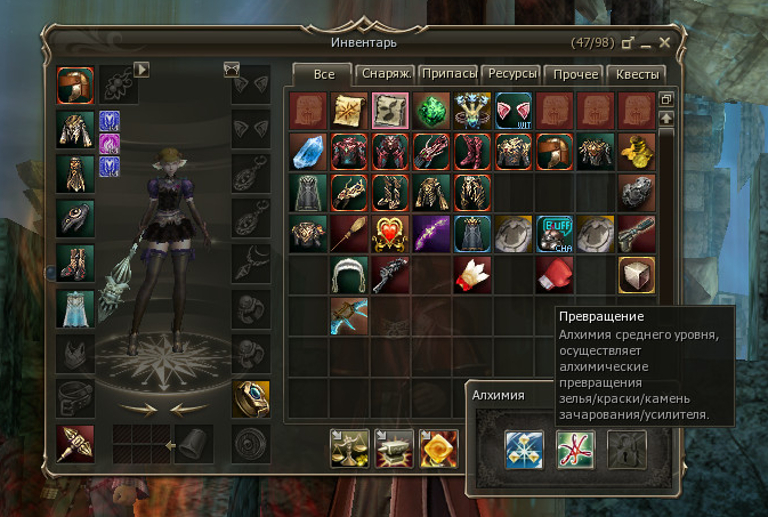
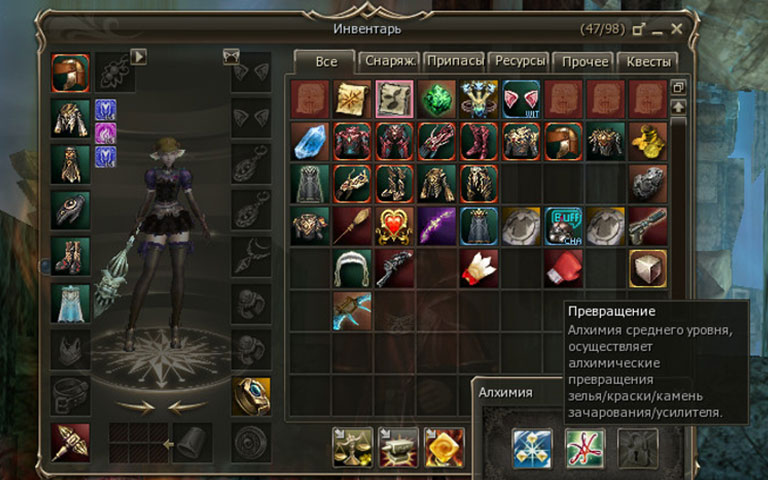
New images and image scaling

diff --git a/out/b/l2-ertheia.css b/out/b/l2-ertheia.css
@@ -1,4 +1,4 @@
-@import url('http://fonts.googleapis.com/css?family=Philosopher:400,700&subset=cyrillic,latin');
+@import url('//fonts.googleapis.com/css?family=Philosopher:400,700&subset=cyrillic,latin');
 .pL2Ertheia_bMainContent {
   position: relative;
   max-width: 1200px;
@@ -1322,6 +1322,7 @@
 .bPatchnoteContent p > img {
   display: block;
   margin: 0 auto;
+  max-width: 100%;
 }
 .bPatchnoteContent hr {
   background: none;

diff --git a/src/b/bPatchnotePage/bPatchnotePage.less b/src/b/bPatchnotePage/bPatchnotePage.less
@@ -111,6 +111,7 @@
 	p > img {
 		display: block;
 		margin: 0 auto;
+		max-width: 100%;
 	}
 	
 	hr {
